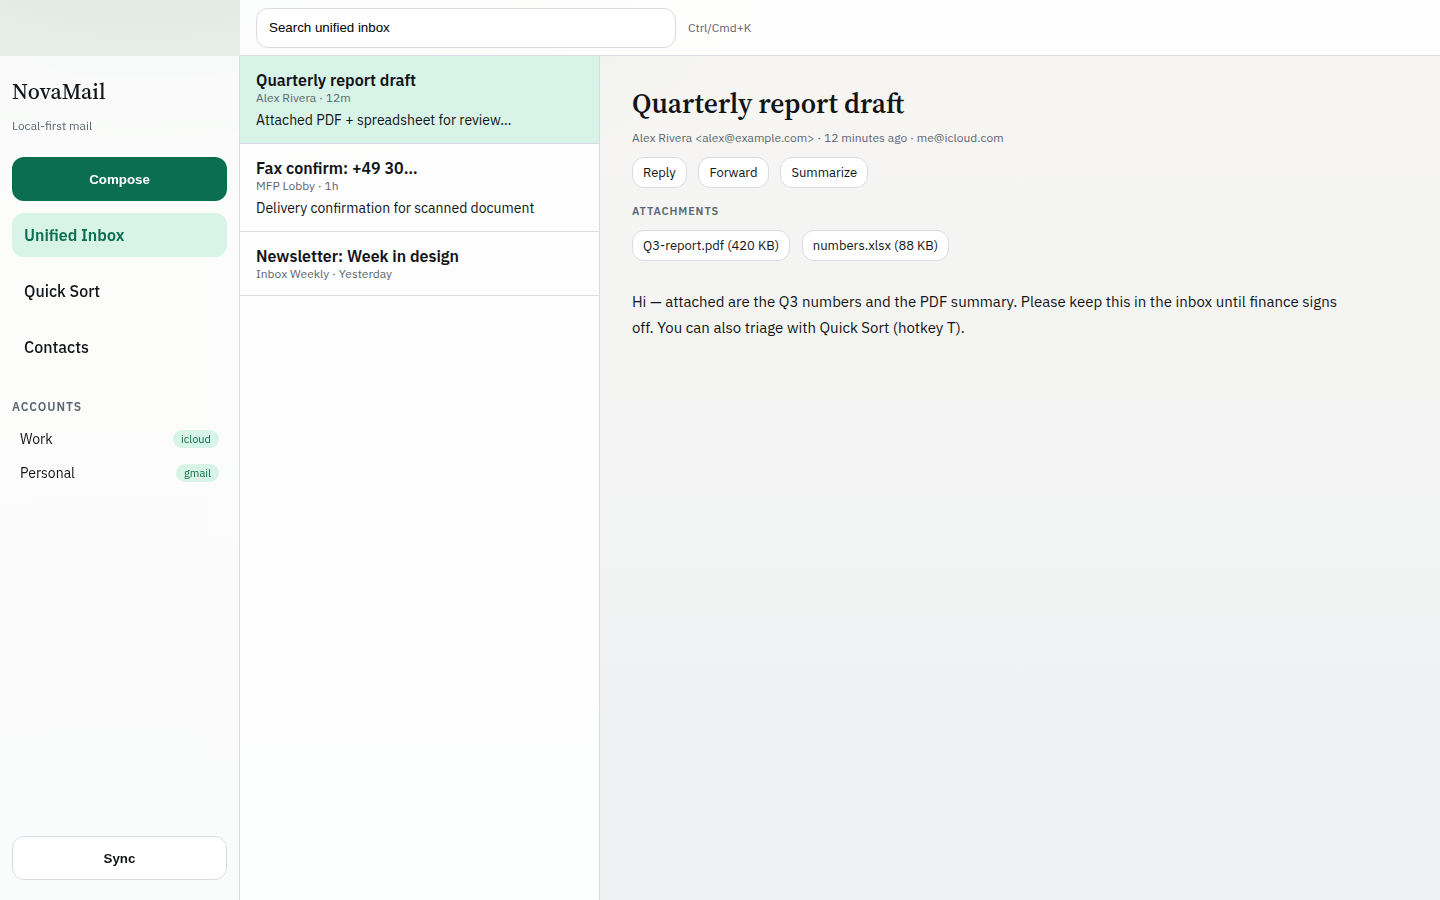
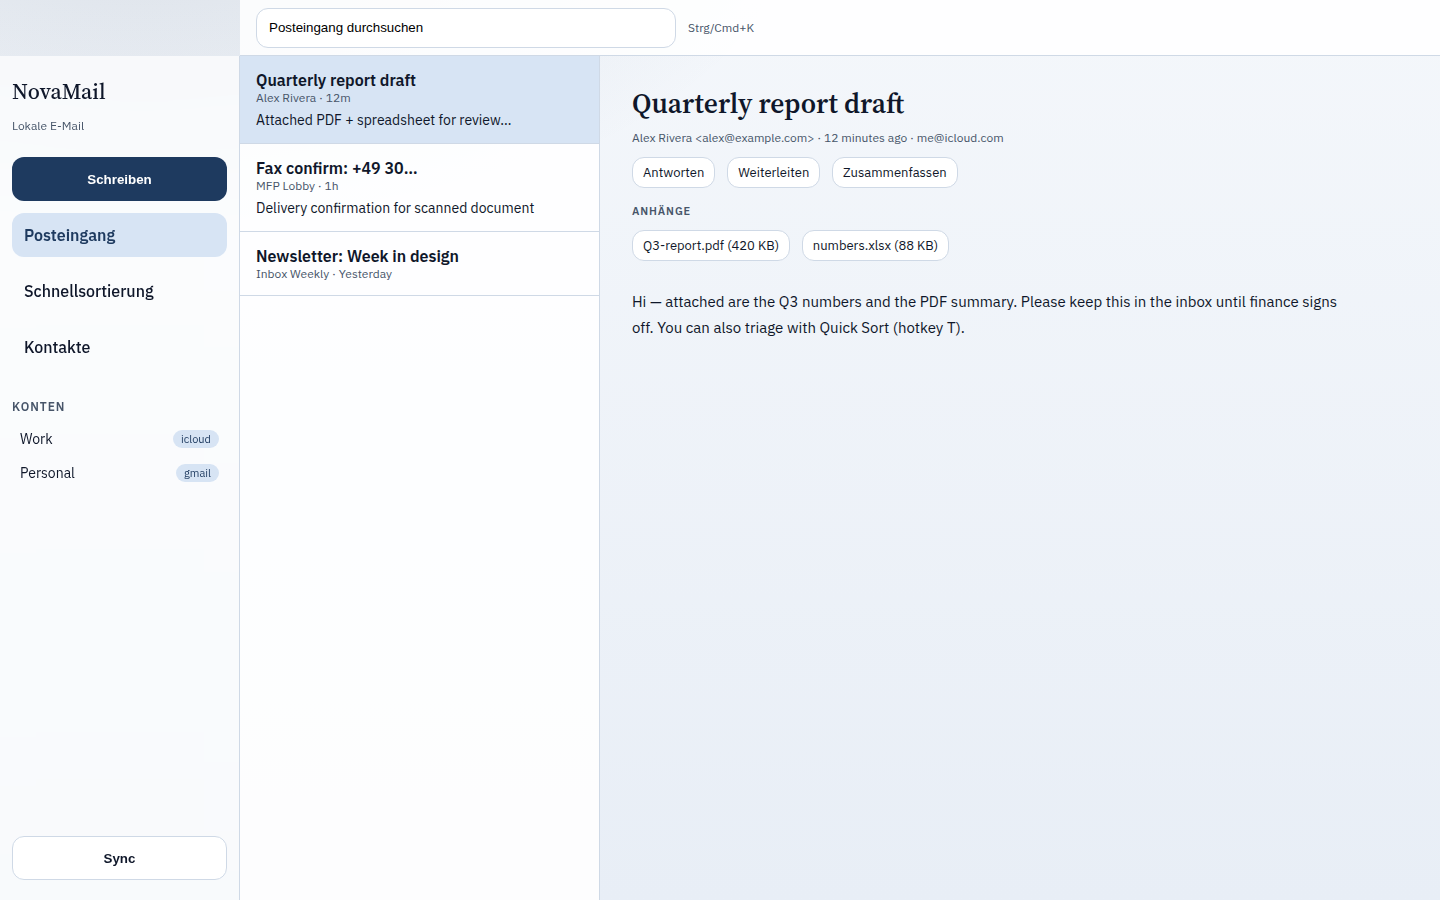
docs: refresh screenshots for German navy UI
Capture updated inbox, Quick Sort, and contacts/CardDAV previews in the
dark-blue/white scheme with German labels.

diff --git a/docs/screenshots/preview.html b/docs/screenshots/preview.html
@@ -1,9 +1,9 @@
 <!doctype html>
-<html lang="en">
+<html lang="de">
   <head>
     <meta charset="utf-8" />
     <meta name="viewport" content="width=device-width, initial-scale=1" />
-    <title>NovaMail UI Preview</title>
+    <title>NovaMail UI-Vorschau</title>
     <link rel="preconnect" href="https://fonts.googleapis.com" />
     <link rel="preconnect" href="https://fonts.gstatic.com" crossorigin />
     <link

diff --git a/docs/screenshots/README.md b/docs/screenshots/README.md
@@ -1,14 +1,14 @@
-# NovaMail screenshots
+# NovaMail Screenshots
 
-Example UI captures for the README and docs.
+Beispiel-UI im aktuellen Design (Dunkelblau/Weiß, Deutsch).
 
-| File | View |
-|------|------|
-| `inbox.png` | Unified inbox + attachments in reading pane |
-| `quick-sort.png` | Yahoo-style Keep / Delete triage |
-| `contacts-carddav.png` | Address book + CardDAV status |
+| Datei | Ansicht |
+|------|---------|
+| `inbox.png` | Posteingang mit Anhängen |
+| `quick-sort.png` | Schnellsortierung (Behalten / Löschen / Vorschau) |
+| `contacts-carddav.png` | Adressbuch + CardDAV |
 
-`preview.html` is a static design-system preview used for reproducible captures:
+Neu erzeugen:
 
 ```bash
 ./scripts/capture-screenshots.sh
